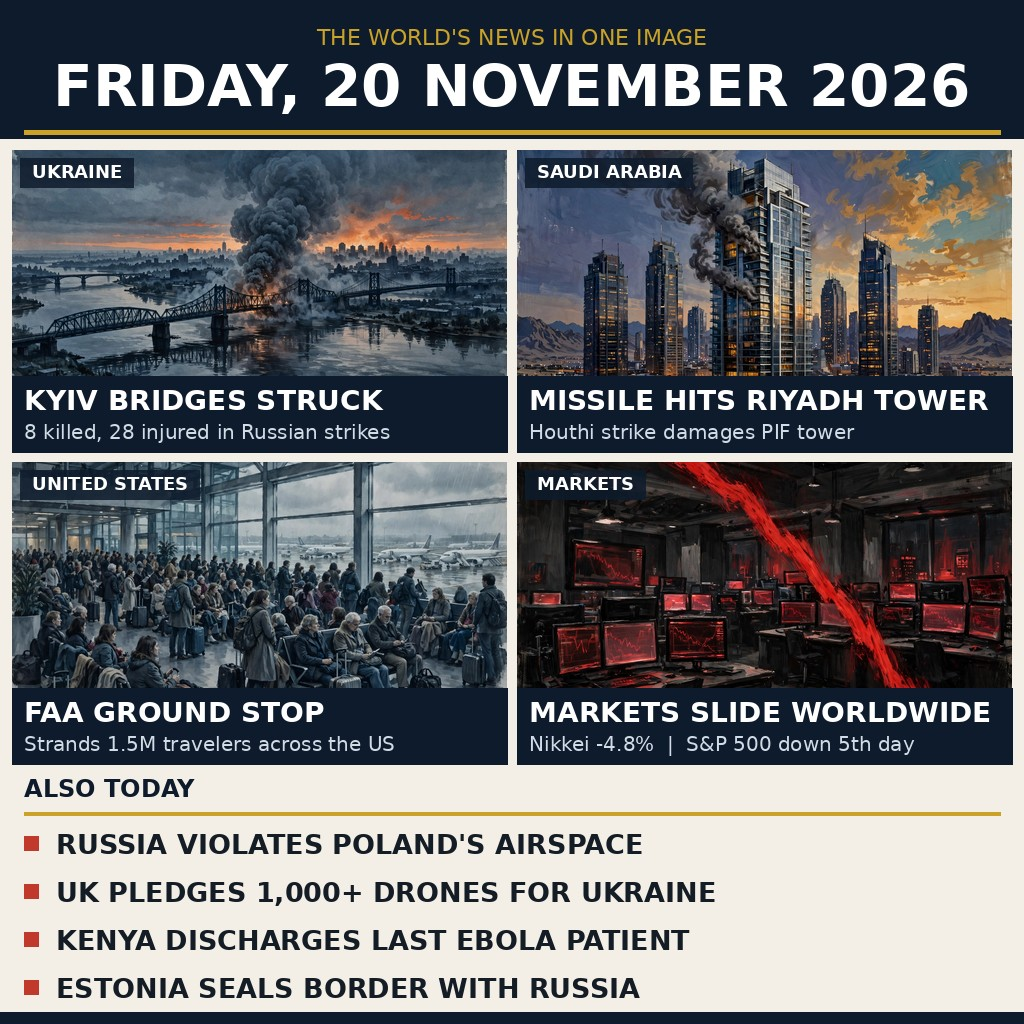
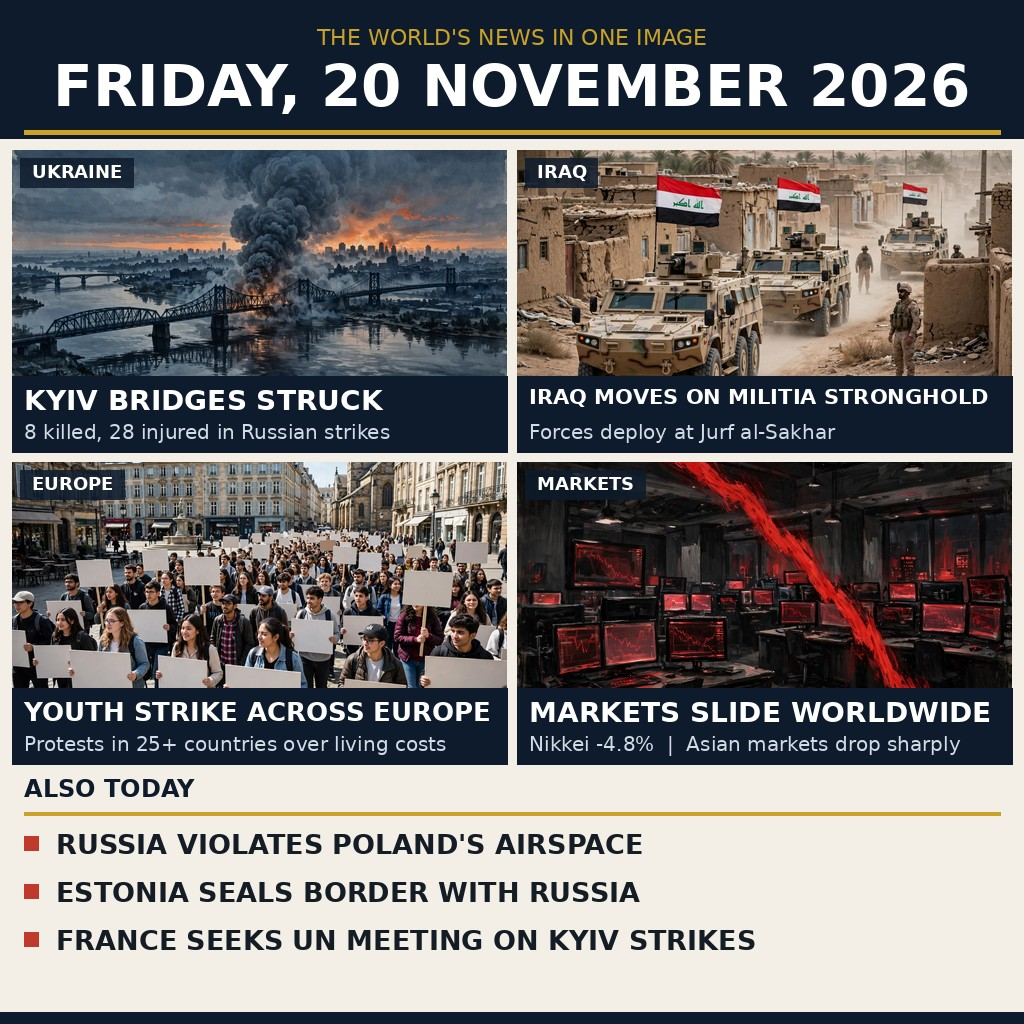
news-image 20 Nov 2026 v2

diff --git a/README.md b/README.md
@@ -4,7 +4,7 @@
 [![rank](https://make.fun/badge/news-image-20261120/fynix39/news-image-20261120/rank.svg)](https://make.fun/bounty/news-image-20261120/leaderboard?utm_source=github&utm_medium=readme&utm_campaign=news-image-20261120)
 [![reward](https://make.fun/badge/news-image-20261120/fynix39/news-image-20261120/reward.svg)](https://make.fun/bounty/news-image-20261120?utm_source=github&utm_medium=readme&utm_campaign=news-image-20261120)
 
-One image summing up the world's news of Friday, 20 November 2026: Russian strikes hit Kyiv's bridges, a Houthi missile damages Riyadh's PIF tower, a nationwide FAA ground stop strands 1.5M travelers, markets slide worldwide — plus Russia's airspace violation over Poland, the UK's drone pledge for Ukraine, Kenya discharging its last Ebola patient, and Estonia sealing its border with Russia. Four AI-generated art panels with all text rendered programmatically, so every label is crisp and every fact is sourced from the day's reporting.
+One image summing up the world's news of Friday, 20 November 2026: Russian strikes hit Kyiv's bridges, Iraqi forces deploy at the Jurf al-Sakhar militia stronghold, a youth strike sweeps Europe, and markets slide worldwide — plus Russia's airspace violation over Poland, Estonia sealing its border with Russia, and France seeking a UN meeting on the Kyiv strikes. Four AI-generated art panels with all text rendered programmatically, so every label is crisp and every fact is dated to 20 November 2026 (each story's date was checked against dated primary reporting; v1 items that turned out to belong to other days were removed).
 
 ## Run it
 
